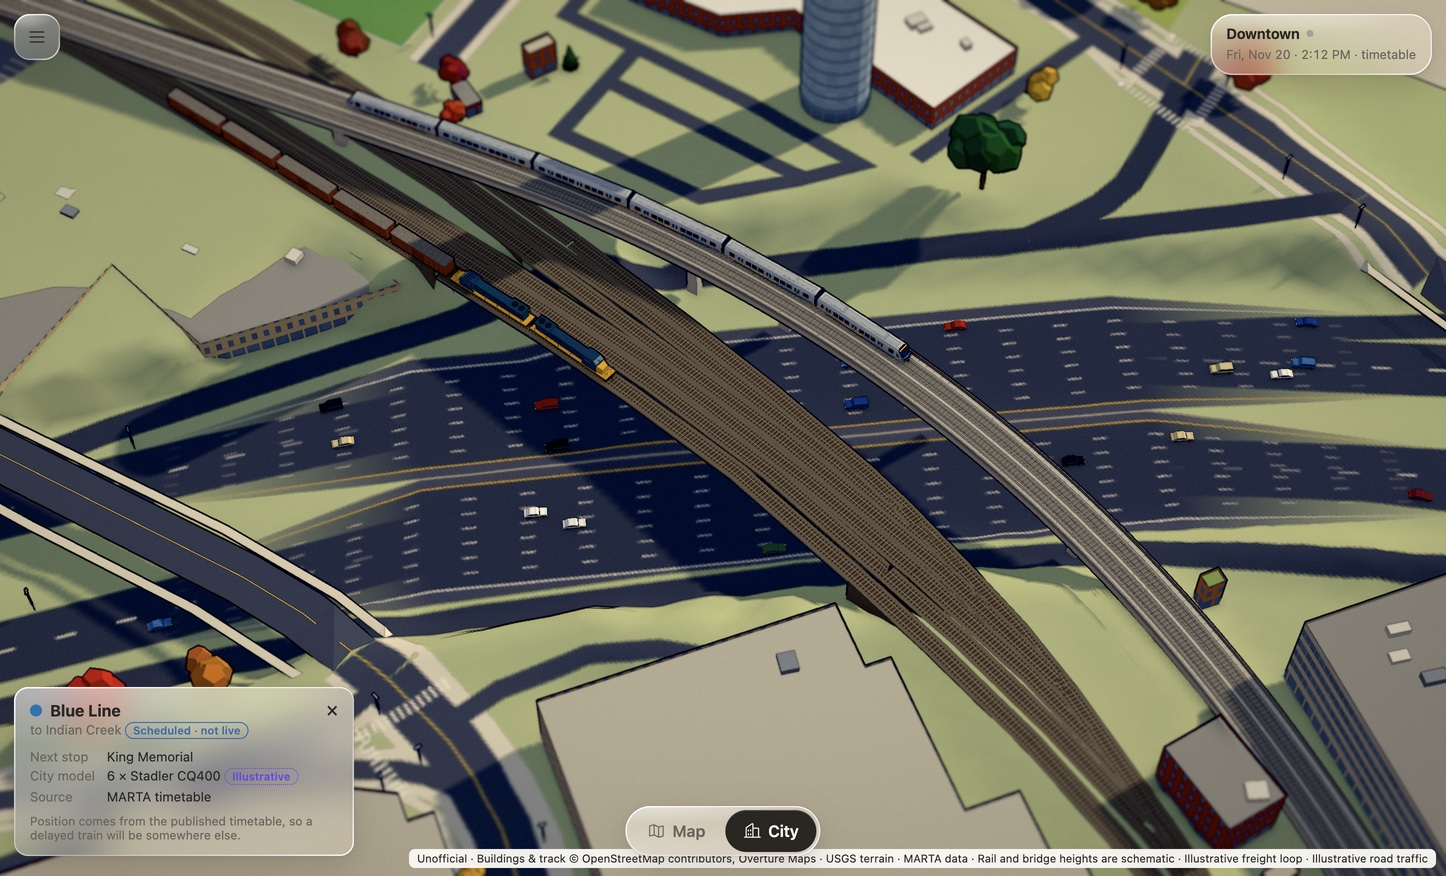
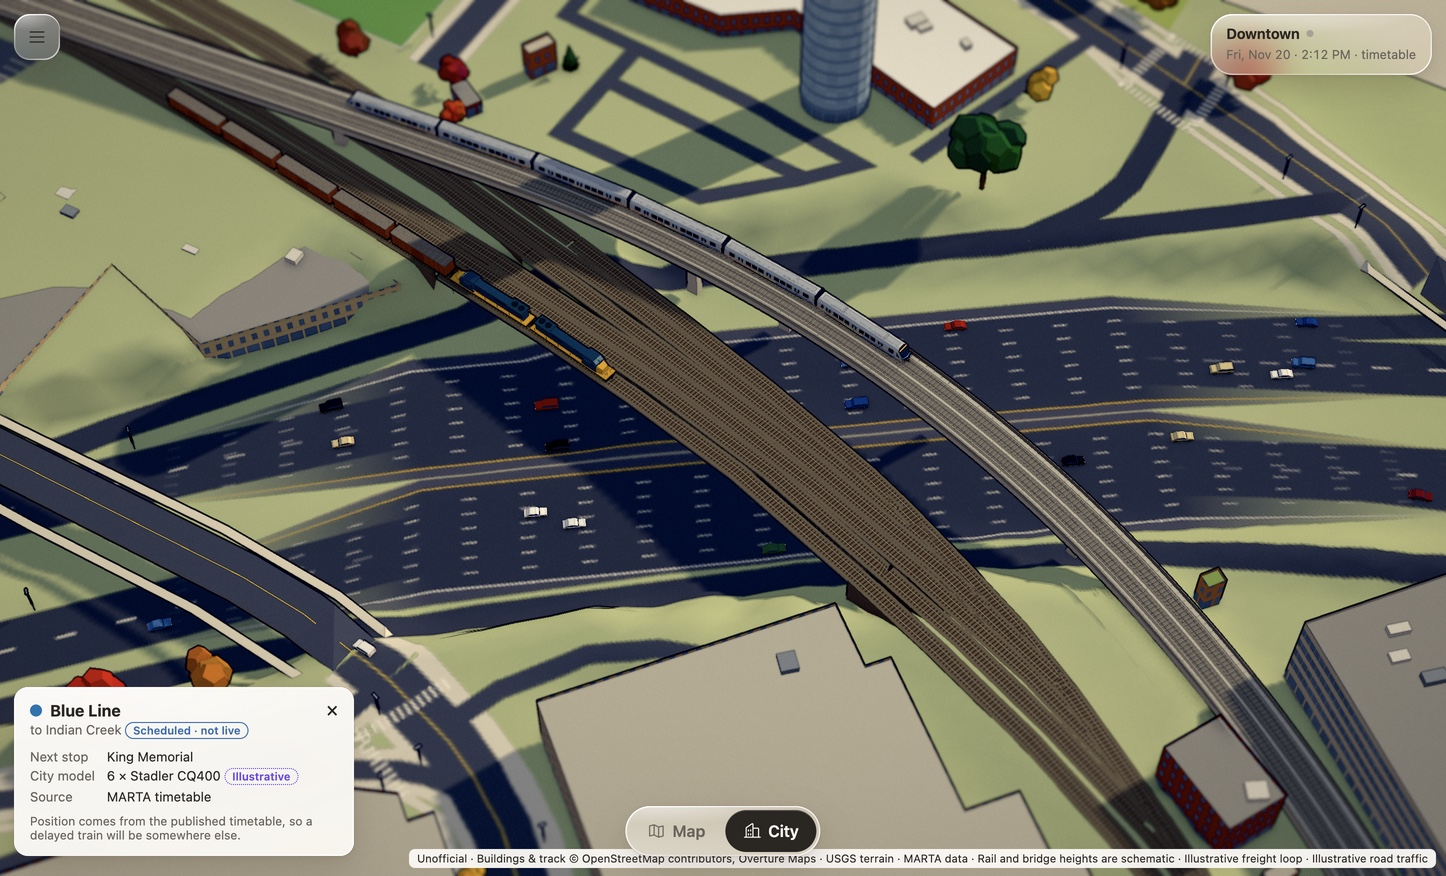
Record the live bus, scheduled train and A16 touch checks

Changed region(s): [[0.0, 0.7705, 0.249, 0.9863]]

diff --git a/docs/build-log.md b/docs/build-log.md
@@ -1375,4 +1375,6 @@ On the Galaxy A16 the combined opening averaged **52.29 fps** in daytime replay 
 
 ### 2026-11-21 — Tapping the train above the highway
 
-At Georgia State, one tap on the upper viaduct opened the scheduled Blue Line to Indian Creek. A tap on the lower viaduct opened the illustrative freight loop. Both were visible at the same replay instant. The selector follows the drawn length of each car and trims it at the same portal planes as the renderer. The 24-pixel margin uses CSS pixels, so the phone’s lower render resolution keeps the same touch target. In the live scene, Route 55 bus 2360 showed the age of its MARTA report and identified the New Flyer Xcelsior XN40 body as illustrative. [Scheduled Blue Line](log/ui/2026-11-21-city-train-card.jpg) · [Live Route 55 bus](log/ui/2026-11-21-city-bus-card.jpg)
+At Georgia State, one tap on the upper viaduct opened the scheduled Blue Line to Indian Creek. A tap on the lower viaduct opened the illustrative freight loop. Both were visible at the same replay instant. The selector follows the drawn length of each car and trims it at the same portal planes as the renderer. The 24-pixel margin uses CSS pixels, so the phone’s lower render resolution keeps the same touch target. In the live scene, Route 55 bus 2360 showed the age of its MARTA report and identified the New Flyer Xcelsior XN40 body as illustrative. [Scheduled Blue Line](log/ui/2026-11-21-city-train-card.jpg) · [Live Route 49 bus on a later check](log/ui/2026-11-21-city-bus-card.jpg)
+
+On the A16 the first card was readable over pale pavement but lost contrast against the freight deck in shadow. The card now uses the same light or dark surface as the attribution. The 44 × 44 px close control and view switch stayed accessible at 384 × 692 and 360 × 560. [Blue Line card on the Galaxy A16](log/ui/2026-11-21-city-train-card-a16.jpg)

diff --git a/docs/city-handoff.md b/docs/city-handoff.md
@@ -127,3 +127,5 @@ The four-track opening east of Five Points lies between Pryor Street SW and Shir
 Map remains the landing view. Use high tier for Sam's desktop preview. The next traffic scope is major arterials, followed by vehicle selection and its per-attribute source labels. Repeat the low-tier device measurement as the moving street network grows. [Milestone 2](city-plan.md)
 
 City now includes illustrative cars on matched downtown major arterials. The optional arterials.json is generated by pnpm data:city and must be staged with the downtown assets when deploying. City can still show Connector traffic with an older bake. [Source records and reproduction](arterials.md) · [Decatur Street crossing](log/ui/2026-11-21-decatur-arterial-bridge.jpg)
+
+Tap a passenger car or bus to see its route and source, or tap the freight consist to inspect the illustrative loop. Drag and pinch move the camera. Vehicle cards use the production Map and City data, and remain available when basemap tiles are slow. [Phone screenshot](log/ui/2026-11-21-city-train-card-a16.jpg)
